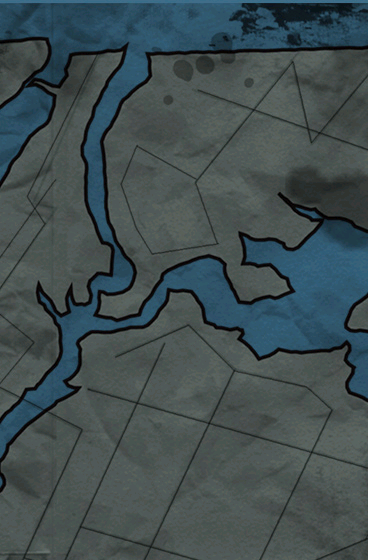
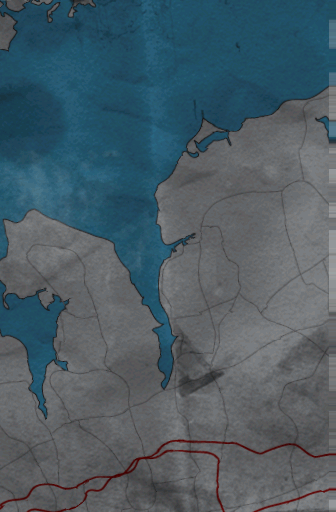
Selector: retail map (map.big, order matched by edges), venue descriptions from cmusen.loc, three-card screen, advertised modes only, CPU seats

diff --git a/port/menu/extract.py b/port/menu/extract.py
@@ -35,6 +35,13 @@ VENUE_ART = {"Carribean Club": 12, "Junkyard (After Hours)": 15, "Subway": 11, "
              "Crow's Office": 26, "Crow's Cage": 10, "Crow's Club": 9, "Construction Site": 19, "DMob Club": 4,
              "Parkade": 17, "The Limit CLub": 2, "DMob Club (Intense)": 5, "Junkyard": 14, "Chopshop": 13,
              "Power Plant": 7, "Gauntlet (Another Lighting)": 21, "Dragon House (Remix)": 8, "Gauntlet": 22}
+# cmusen.loc string numbers of the venue descriptions (3066..3091 are consecutive; 3067 is a title and 3071/3081 describe
+# story-only spots). Venues are matched to them by what each text says.
+VENUE_TEXT = {"Carribean Club": 3080, "Junkyard (After Hours)": 3084, "Subway": 3079, "Club DTP (Intense)": 3086,
+              "Fight Club": 3070, "Warehouse Inferno": 3089, "Lefrak (Remix)": 3075, "Club DTP": 3085, "Blaze's Gym": 3091,
+              "Old School Club": 3078, "Crow's Office": 3090, "Crow's Cage": 3072, "Crow's Club": 3073, "Construction Site": 3076,
+              "DMob Club": 3066, "Parkade": 3077, "The Limit CLub": 3069, "DMob Club (Intense)": 3068, "Junkyard": 3083,
+              "Chopshop": 3082, "Power Plant": 3087, "Gauntlet (Another Lighting)": 3088, "Dragon House (Remix)": 3074, "Gauntlet": 3088}
 STYLES = {"kickboxing": 0x88, "streetfighting": 0x8a, "martialArts": 0x8c, "wrestling": 0x8e, "submissions": 0x90}
 STICKERS = [0x7d, 0x7e, 0x80, 0x81]   # blue, red, green, purple player stickers (chooseF2 texture order)
 THUMB = 40
@@ -76,6 +83,23 @@ class Source:
         parts = self.read(member)
         ssh = next(v for k, v in parts.items() if k.endswith(".ssh"))
         return {k.strip(): v for k, v in textures(ssh).items()}
+
+
+def loc_strings(source) -> list:
+    """The US English front-end text (MISC.VIV cmusen.loc): LOCH, LOCT (hash table), then LOCL = size, 0, count, offsets from
+    the LOCL start, UTF-16 strings. Keys are hashed (not needed: the strings keep their order)."""
+    archive = "/ASSETS/MISC.VIV"
+    raw = source.disc.read(archive, *source.disc.viv_entry(archive, "cmusen.loc"))
+    data = decompress(raw) if raw[:2] == bytes.fromhex("10fb") else raw
+    base = data.index(b"LOCL")
+    count = struct.unpack_from("<I", data, base + 12)[0]
+    out = []
+    for offset in struct.unpack_from(f"<{count}I", data, base + 16):
+        end = base + offset
+        while data[end:end + 2] != b"\0\0":
+            end += 2
+        out.append(data[base + offset:end].decode("utf-16-le"))
+    return out
 
 
 def write(path: Path, data: bytes):
@@ -120,15 +144,20 @@ def export(iso, output: Path):
             f2pic(index, f"style-{style}")
 
         types = source.pictures("screens/battle/support/chooseMatchTypeButtons.big")
-        for tag, name in (("9", "type-1v1"), ("27", "type-ffa"), ("15", "type-bracket")):
+        for tag, name in (("9", "type-1v1"), ("23", "type-team"), ("27", "type-ffa"), ("15", "type-bracket")):
             write(output / f"{name}.png", types[tag])
+        f3 = source.pictures("screens/battle/chooseF3.big")
+        for tag, name in (("343", "select3-bg-0"), ("342", "select3-bg-1"), ("330", "ready3"), ("373", "thumb-paper3")):
+            write(output / f"{name}.png", f3[tag])
         f4 = source.pictures("screens/battle/chooseF4.big")
         for tag, name in (("344", "select4-bg-0"), ("343", "select4-bg-1"), ("338", "ready4"), ("376", "thumb-paper4")):
             write(output / f"{name}.png", f4[tag])
 
         # -- venues (chsVenue + chooseVenueArt + venThumb<feID>) ------------------------------------------------
-        for n in range(1, 8):
-            write(output / f"map-{n}.png", source.pictures("screens/battle/venueMap.big")[str(n)])
+        # battle/map.big is the retail map (red streets, borough names): a 3 x 3 grid of 512/512/336 by 512/512/92 pieces whose
+        # order was recovered by matching edges (see TILES in screens.mjs): 9 7 6 / 5 4 3 / 2 1 8.
+        for tag, tile in source.pictures("screens/battle/map.big").items():
+            write(output / f"map-{tag}.png", tile)
         chs = source.pictures("screens/battle/chsVenue.big")
         for tag, name in (("143", "polaroid-a"), ("150", "polaroid-b"), ("157", "polaroid-c"), ("141", "tape"),
                           ("11", "paper-0"), ("14", "paper-1"), ("19", "paper-2"), ("8", "paper-3"), ("71", "red-0"), ("74", "red-1"),
@@ -136,6 +165,7 @@ def export(iso, output: Path):
             write(output / f"{name}.png", chs[tag])
         art = source.pictures("screens/_art/chooseVenueArt.big")
         venues = []
+        text = loc_strings(source)
         for venue in inventory["venues"]:
             n = VENUE_ART[venue["key"]]
             photo = art[str(206 + 3 * n)]
@@ -143,7 +173,8 @@ def export(iso, output: Path):
             note = f"screens/venuethumbs/venThumb{venue['feID']}.big"
             if source.has(note):
                 write(output / f"notes/{venue['feID']}.png", next(iter(source.pictures(note).values())))
-            venues.append({"file": venue["file"], "handle": venue["handle"], "name": venue["name"], "feID": venue["feID"]})
+            venues.append({"file": venue["file"], "handle": venue["handle"], "name": venue["name"], "feID": venue["feID"],
+                           "description": text[VENUE_TEXT[venue["key"]]].strip()})
         pins = {}
         movie = apt.Apt.parse(source.read("screens/battle/chsVenue.big")["chsVenue.apt"])
         for e in movie.flatten(0, 0):
